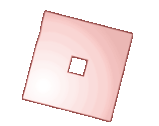
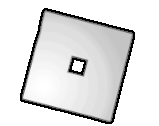
Updated visual style

Changed region(s): [[0.1258, 0.0476, 0.8553, 1.0]]

diff --git a/index.html b/index.html
@@ -66,14 +66,18 @@
      </div>
 </header>  
 </div> 
+
 <section class="wrapper" id="banner">
 	<div class="container">   
         <div class="row">
         	<div class="col-lg-12 col-md-12 col-sm-12">
                 <p  class="os-animation" data-os-animation="fadeIn" data-os-animation-delay="0.1s">Game developer, event organizer, data analyst, music producer, and more.</p>
                 <div class="bottomline"></div>
+                <center>
                 <body class="os-animation" data-os-animation="fadeIn" data-os-animation-delay="0.2s">Heya, my name is Mia! I'm a well rounded game developer, primarily best at programming. If you're looking to hire me, you haven't gone wrong!</body>
+                <br><br>
                 <body class="os-animation" data-os-animation="fadeIn" data-os-animation-delay="0.3s">Please contact me if you have questions, don't leave with assumptions!</body>
+                </center>
             </div>       
         </div>
     </div>
@@ -145,59 +149,9 @@
         	<div class="col-lg-12 col-md-12 col-sm-12">
                 <h2 class="os-animation" data-os-animation="fadeIn" data-os-animation-delay="0.5s">MY PORTFOLIO</h2>
                 <div class="bottomline"></div>
-                <p class="os-animation" data-os-animation="fadeIn" data-os-animation-delay="0.7s">Take a look at my work more in detail!</p>
+                <p class="os-animation" data-os-animation="fadeIn" data-os-animation-delay="0.7s">My portfolio showcases my work more in-depth. If you want to see what work I've done, check it out!</p>
             </div>
         </div>
-
-        <!--
-
-        <div class="row clearfix">
-       		<div class="col-lg-12 col-md-12 col-sm-12">
-    		<div class="os-animation" data-os-animation="fadeIn" data-os-animation-delay="0.9s"> 
-                <ul id="portfolio-filter">
-                    <li><a href="#all" title="">All</a></li>
-                    <li><a href="#web" title="" rel="web">WEB</a></li>
-                    <li><a href="#apps" title="" rel="apps">APPS</a></li>
-                    <li><a href="#icons" title="" rel="icons">ICONS</a></li>
-                </ul>
-		
-                <ul id="portfolio-list" class="clearfix">
-                                <li style="display: block;" class="web icons">
-                                        <a href="#"><img src="images/portimg1.png" alt=""></a>
-                                    <p>
-                                        Isometric Perspective Mock-Up
-                                    </p>
-                                </li>
-			
-                                <li style="display: block;" class="apps">
-                                        <a href="#"><img src="images/portimg2.png" alt=""></a>
-                                    <p>
-                                        Time Zone App UI
-                                    </p>
-                                </li>
-			
-                                <li class="apps icons">
-                                        <a href="#"><img src="images/portimg3.png" alt=""></a>
-                                    <p>
-                                        Viro Media Players UI
-                                    </p>
-                                </li>
-			
-                                <li class="web icons">
-                                        <a href="#" title=""><img src="images/portimg4.png" alt=""></a>
-                                    <p>
-                                        Blog / Magazine Flat UI Kit
-                                    </p>
-                                </li>
-                            
-                    
-                        <li style="overflow: hidden; clear: both; height: 0px; position: relative; float: none; display: block;"></li>
-                </ul>
-              </div>  
-        	</div>
-         </div> 
-
-        -->
 
          <div class="row">
          	<div class="col-lg-12 col-md-12 col-sm-12"> 
@@ -207,79 +161,6 @@
   </div>
 </section>	
 
-<!--ABOUT US-->
-<!--
-<section class="wrapper" id="about">
-	<div class="container">
-    	<div class="row">
-        	<div class="col-lg-12 col-md-12 col-sm-12">
-                <h2 class="os-animation" data-os-animation="fadeIn" data-os-animation-delay="0.5s">WHAT POEPLE SAY ABOUT US</h2>
-                <div class="bottomline"></div>
-                <p class="os-animation" data-os-animation="fadeIn" data-os-animation-delay="0.7s">Our clients love us!</p>
-            </div>
-        </div>
-        <div class="row">
-        	 <div class="col-lg-6 col-md-6 col-sm-6">
-            	<div class="os-animation testimonial clearfix" data-os-animation="fadeIn" data-os-animation-delay="0.5s">
-                	<div class="testimage">
-                		<img src="images/blackimagesmall.png" alt="">
-                    </div>
-                    <div class="righttest">
-                    	<blockquote>
-                        	“Nullam dapibus blandit orci, viverra gravida dui lobortis eget. Maecenas fringilla urna eu nisl scelerisque.”
-                        </blockquote>
-                        <span>Chanel Iman</span>
-                        <span class="smalltest">CEO of Pinterest</span>
-                    </div>
-                </div>
-            </div>
-            <div class="col-lg-6 col-md-6 col-sm-6">
-            	<div class="os-animation testimonial clearfix" data-os-animation="fadeIn" data-os-animation-delay="0.6s">
-                	<div class="testimage">
-                		<img src="images/blackimagesmall.png" alt="">
-                    </div>
-                    <div class="righttest">
-                    	<blockquote>
-                        	“Vivamus luctus urna sed urna ultricies ac tempor dui sagittis. In condimentum facilisis porta.”
-                        </blockquote>
-                        <span>ADRIANA LIMA</span>
-                        <span class="smalltest">Founder of Instagram</span>
-                    </div>
-                </div>
-            </div>
-            <div class="col-lg-6 col-md-6 col-sm-6">
-            	<div class="os-animation testimonial clearfix" data-os-animation="fadeIn" data-os-animation-delay="0.7s">
-                	<div class="testimage">
-                		<img src="images/blackimagesmall.png" alt="">
-                    </div>
-                    <div class="righttest">
-                    	<blockquote>
-                        	“Vivamus luctus urna sed urna ultricies ac tempor dui sagittis. In condimentum facilisis porta.”
-                        </blockquote>
-                        <span>ANNE HATHAWAY</span>
-                        <span class="smalltest">Lead Designer at Behance</span>
-                    </div>
-                </div>
-            </div>
-             <div class="col-lg-6 col-md-6 col-sm-6">
-            	<div class="os-animation testimonial clearfix" data-os-animation="fadeIn" data-os-animation-delay="0.8s">
-                	<div class="testimage">
-                		<img src="images/blackimagesmall.png" alt="">
-                    </div>
-                    <div class="righttest">
-                    	<blockquote>
-                        	“Phasellus non purus vel arcu tempor commodo. Fusce semper, purus vel luctus molestie, risus sem cursus neque.”
-                        </blockquote>
-                        <span>EMMA STONE</span>
-                        <span class="smalltest">Co-Founder of Shazam</span>
-                    </div>
-                </div>
-            </div>
-        </div>
-    </div>
-</section>
--->
-
 <!--GET IN TOUCH-->
 <section class="wrapper" id="contact">
 	<div class="container">
@@ -287,28 +168,9 @@
         	<div class="col-lg-12 col-md-12 col-sm-12">
                 <h2 class="os-animation" data-os-animation="fadeIn" data-os-animation-delay="0.5s">GET IN TOUCH</h2>
                 <div class="bottomline"></div>
-                <p class="os-animation" data-os-animation="fadeIn" data-os-animation-delay="0.7s">Shoot an email to mia@igstudios.xyz if you want to reach out to me!</p>
-                <p class="os-animation" data-os-animation="fadeIn" data-os-animation-delay="0.7s">Alternatively, you may look at the footer below for more contact options.</p>
+                <p class="os-animation" data-os-animation="fadeIn" data-os-animation-delay="0.7s">Shoot an email to mia@igstudios.xyz if you want to reach out to me!<br>Alternatively, you may look at the footer below for more contact options.</p>
             </div>
         </div>
-        <!--
-        <div class="row spacing">
-        	<form div class="os-animation" data-os-animation="fadeIn" data-os-animation-delay="0.8s">
-            <div class="nameemail">
-            	<div class="name">
-            		<input type="text" name="yourname" placeholder="Your Name">
-                </div>
-                <div class="email">
-                	<input type="email" name="youremail" placeholder="Your Email">
-                </div>
-            </div>    
-                <textarea placeholder="Your Message"></textarea>
-               
-               <a href="#" class="os-animation btn11 btn-211 btn-2a11" data-os-animation="zoomIn" data-os-animation-delay="0.5s">SEND MESSAGE</a> 
-                
-            </form>
-        </div>
-        -->
     </div>
 </section>
 

diff --git a/css/style.css b/css/style.css
@@ -104,7 +104,7 @@ h1, h2, h3, h4, h5 {
 header{
 	padding:55px 0 5px;
 	background-color:#ffa8ca;
-	color:#ffffff;
+	color:#000000;
 	position:fixed;
 	width:100%;
 	left:0;
@@ -147,7 +147,7 @@ header nav ul li a{
 	text-transform:uppercase;
 	padding:10px 15px;
 	display:block;
-	color:#ffffff;
+	color:#6d2c57;
 }
 header nav ul li a:hover{
 	background:#c03a6d;
@@ -158,7 +158,7 @@ header nav ul li a:hover{
 #banner {
 	padding:105px 0 140px;
 	background-color:#ffa8ca;
-	color:#ffffff;
+	color:#6d2c57;
 }
 #banner p{
 	font-size:42px;
@@ -380,7 +380,7 @@ header nav ul li a:hover{
 #portfolio h2{
 	font-size:42px;
 	line-height:80px;
-	color:#393939;
+	color:#6d2c57;
 	text-align:center;
 	font-weight:700;
 	letter-spacing:2px;
@@ -388,12 +388,12 @@ header nav ul li a:hover{
 #portfolio .bottomline{
 	height:4px;
 	width:88px;
-	background:#ffffff;
+	background:#6d2c57;
 	display:block;
 	margin:0 auto;
 }
 #portfolio p{
-	color:#393939;
+	color:#6d2c57;
 	font-size:18px;
 	line-height:26px;
 	text-align:center;
@@ -464,7 +464,7 @@ header nav ul li a:hover{
 #about h2{
 	font-size:42px;
 	line-height:80px;
-	color:#ffffff;
+	color:#000000;
 	text-align:center;
 	font-weight:700;
 	letter-spacing:2px;
@@ -477,7 +477,7 @@ header nav ul li a:hover{
 	margin:0 auto;
 }
 #about p{
-	color:#ffffff;
+	color:#000000;
 	font-size:18px;
 	line-height:26px;
 	text-align:center;
@@ -527,13 +527,13 @@ header nav ul li a:hover{
 
 /*----GET IN TOUCH----*/
 #contact{
-	padding:100px 0 100px;
+	padding:40px 0 0;
 	text-align:	center;
 	background:#c03a6d;
 }
 #contact h2{
 	font-size:42px;
-	line-height:80px;
+	line-height:60px;
 	color:#ffffff;
 	text-align:center;
 	font-weight:700;
@@ -555,7 +555,7 @@ header nav ul li a:hover{
 	display:block;
 }
 .spacing{
-	margin:0 100px;
+	margin:0 10px;
 }
 .name{
 	width:50%;
@@ -733,8 +733,8 @@ if it's not present, don't show loader */
  position: fixed;
  left: 0px;
  top: 0px;
- width: 100%;
- height: 100%;
+ width: 10%;
+ height: 10%;
  z-index: 9999;
  background: url(../images/star.png) center no-repeat #faabcb;
  
